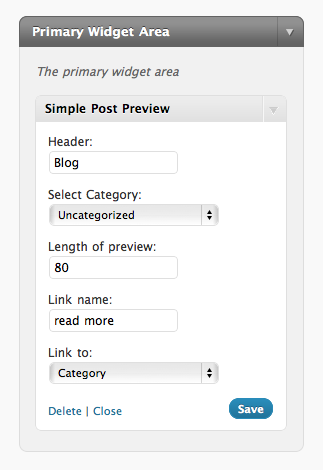
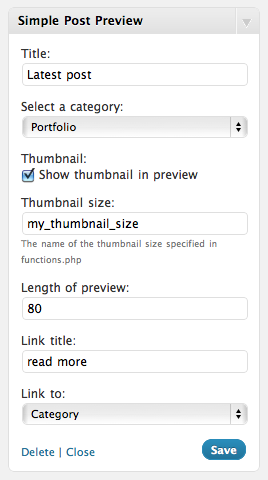
Final touches for 1.1.0 release

Changed region(s): [[0.0299, 0.0298, 0.9851, 0.983], [0.597, 0.7745, 0.6866, 0.834]]

diff --git a/css/simple-post-preview.css b/css/simple-post-preview.css
@@ -1,3 +1,8 @@
 .simple-post-preview input[type=text], .simple-post-preview select {
   width: 100%;
 }
+
+.simple-post-preview small {
+  font-size: 9px;
+  color: #777;
+}

diff --git a/includes/interface.php b/includes/interface.php
@@ -1,54 +1,51 @@
-  <div class="simple-post-preview">
-    <p>
-      <label for="<?php echo $this->get_field_name('header'); ?>"><?php echo __('Header:') ?></label><br>
-      <input id="<?php echo $this->get_field_id('header') ?>" name="<?php echo $this->get_field_name('header'); ?>" type="text" value="<?php echo $header; ?>"/>
-    </p>
+<div class="simple-post-preview">
+  <p>
+    <label for="<?php echo $this->get_field_name('title'); ?>"><?php echo __('Title:') ?></label><br>
+    <input id="<?php echo $this->get_field_id('title') ?>" name="<?php echo $this->get_field_name('title'); ?>" type="text" value="<?php echo $title; ?>"/>
+    <small>If empty the posts title will be used</small>
+  </p>
 
-    <p>
-      <label for="<?php echo $this->get_field_name('category'); ?>"><?php echo __('Select category:'); ?></label><br>
-      <select name="<?php echo $this->get_field_name('category'); ?>" id="<?php echo $this->get_field_id('category'); ?>">
-      <?php $result = $wpdb->get_results(
-        "SELECT {$wpdb->terms}.term_id, name FROM {$wpdb->terms}
-         LEFT JOIN {$wpdb->term_taxonomy}
-         ON {$wpdb->term_taxonomy}.term_id = {$wpdb->terms}.term_id
-         WHERE {$wpdb->term_taxonomy}.taxonomy = 'category'
-         AND {$wpdb->term_taxonomy}.count > 0;"
-      );
-      foreach($result as $category) : ?>
+  <p>
+    <label for="<?php echo $this->get_field_name('category'); ?>"><?php echo __('Select a category:'); ?></label><br>
+    <select name="<?php echo $this->get_field_name('category'); ?>" id="<?php echo $this->get_field_id('category'); ?>">
+    <?php include_once('db_queries.php');
+      foreach(spp_get_categories() as $category) : ?>
         <option <?php echo ($category->term_id == $instance['category']) ? 'selected' : '' ?> value="<?php echo $category->term_id; ?>">
           <?php echo $category->name; ?>
         </option>
       <?php endforeach; ?>
-      </select></p>
+    </select>
+  </p>
 
-    <p>
-      <label for="<?php echo $this->get_field_name('thumbnail'); ?>"><?php echo __('Thumbnail:'); ?></label><br>
-      <input id="<?php echo $this->get_field_id('thumbnail') ?>" name="<?php echo $this->get_field_name('thumbnail'); ?>" type="checkbox" value="checked" <?php echo $thumbnail ? 'checked': ''; ?>>
-      Show thumbnail in preview
-    </p>
+  <p>
+    <label for="<?php echo $this->get_field_name('thumbnail'); ?>"><?php echo __('Thumbnail:'); ?></label><br>
+    <input id="<?php echo $this->get_field_id('thumbnail') ?>" name="<?php echo $this->get_field_name('thumbnail'); ?>" type="checkbox" value="checked" <?php echo $thumbnail ? 'checked': ''; ?>>
+    Show thumbnail in preview
+  </p>
 
-    <p>
-      Thumbnail size:
-      <input id="<?php echo $this->get_field_id('thumbnail_size') ?>" name="<?php echo $this->get_field_name('thumbnail_size'); ?>" type="text" value="<?php echo $thumbnail_size; ?>"/>
-    </p>
+  <p>
+    Thumbnail size:
+    <input id="<?php echo $this->get_field_id('thumbnail_size') ?>" name="<?php echo $this->get_field_name('thumbnail_size'); ?>" type="text" value="<?php echo $thumbnail_size; ?>"/>
+    <small>The name of the thumbnail size specified in functions.php</small>
+  </p>
 
-    <p>
-      <label for="<?php echo $this->get_field_name('length'); ?>"><?php echo __('Length of preview:'); ?></label><br>
-      <input id="<?php echo $this->get_field_id('length'); ?>" name="<?php echo $this->get_field_name('length'); ?>" type="text" value="<?php echo $length; ?>" />
-    </p>
+  <p>
+    <label for="<?php echo $this->get_field_name('length'); ?>"><?php echo __('Length of preview:'); ?></label><br>
+    <input id="<?php echo $this->get_field_id('length'); ?>" name="<?php echo $this->get_field_name('length'); ?>" type="text" value="<?php echo $length; ?>" />
+  </p>
 
-    <p>
-      <label for="<?php echo $this->get_field_name('ellipsis'); ?>"><?php echo __('Ellipsis:'); ?></label><br>
-      <input id="<?php echo $this->get_field_id('ellipsis'); ?>" name="<?php echo $this->get_field_name('ellipsis'); ?>" type="text" value="<?php echo $ellipsis; ?>" />
-    </p>
+  <p>
+    <label for="<?php echo $this->get_field_name('link'); ?>"><?php echo __('Link title:'); ?></label><br>
+    <input id="<?php echo $this->get_field_id('link'); ?>" name="<?php echo $this->get_field_name('link'); ?>" type="text" value="<?php echo $link; ?>" />
+  </p>
 
-    <p>
-      <label for="<?php echo $this->get_field_name('link_to'); ?>"><?php echo __('Link to:'); ?></label><br>
-      <select name="<?php echo $this->get_field_name('link_to'); ?>" id="<?php echo $this->get_field_id('link_to'); ?>">
-        <?php $options = array('Post', 'Category');
-        foreach($options as $option) : ?>
+  <p>
+    <label for="<?php echo $this->get_field_name('link_to'); ?>"><?php echo __('Link to:'); ?></label><br>
+    <select name="<?php echo $this->get_field_name('link_to'); ?>" id="<?php echo $this->get_field_id('link_to'); ?>">
+    <?php $options = array('Post', 'Category');
+      foreach($options as $option) : ?>
         <option value="<?php echo $option; ?>" <?php echo $option == $instance['link_to'] ? 'selected' : '' ?>><?php echo $option; ?></option>
-        <?php endforeach; ?>
-      </select>
-    </p>
-  </div>
+      <?php endforeach; ?>
+    </select>
+  </p>
+</div>

diff --git a/includes/view.php b/includes/view.php
@@ -1,17 +1,17 @@
-<?php echo $args['before_widget']; ?>
-<?php if($header != null) : ?>
-  <?php echo $args['before_title']; ?><?php echo $header; ?><?php echo $args['after_title']; ?>
-  <p class="sub-header"><?php echo $data->post_title; ?></p>
-<?php else : ?>
-  <?php echo $args['before_title']; ?><?php echo $data->post_title; ?><?php echo $args['after_title']; ?>
-<?php endif; ?>
+<?php
+  $output = $args['before_widget'].$args['before_title'];
+  if($title != NULL) {
+    $output .= $title;
+  } else {
+    $output .= $data->post_title;
+  }
+  $output .= $args['after_title'];
 
-<p>
-  <?php if($thumbnail == TRUE) {
-    echo get_the_post_thumbnail($data->ID, $thumbnail_size);
-  } ?>
+  if($thumbnail == TRUE) {
+    $output .= get_the_post_thumbnail($data->ID, $thumbnail_size);
+  }
 
-  <?php $content = strip_tags($data->post_content);
+  $content = strip_tags($data->post_content);
   if(strlen($content) > $length) {
     if($length > 0) {
       $content = substr($content, 0, $length).'&hellip; ';
@@ -19,7 +19,5 @@
       $content = '';
     }
   }
-  print $content; ?>
-</p>
-<p><?php echo $html_link ?></p>
-<?php echo $args['after_widget']; ?>
+  $output .= $content.$html_link.$args['after_widget'];
+  echo $output;
